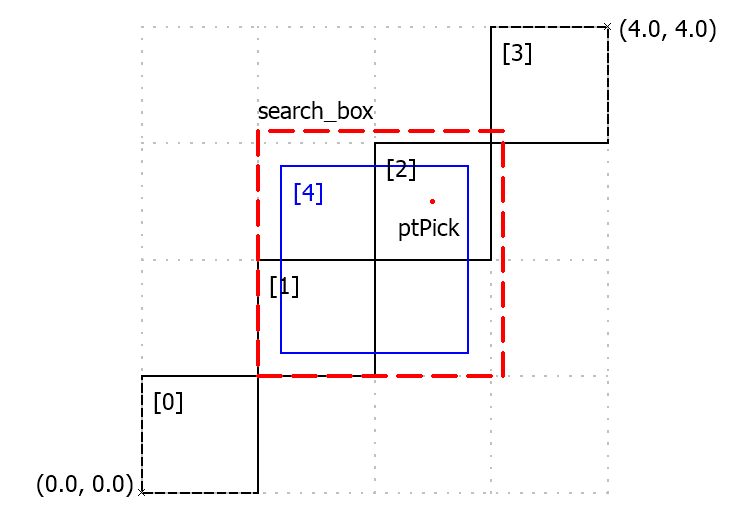
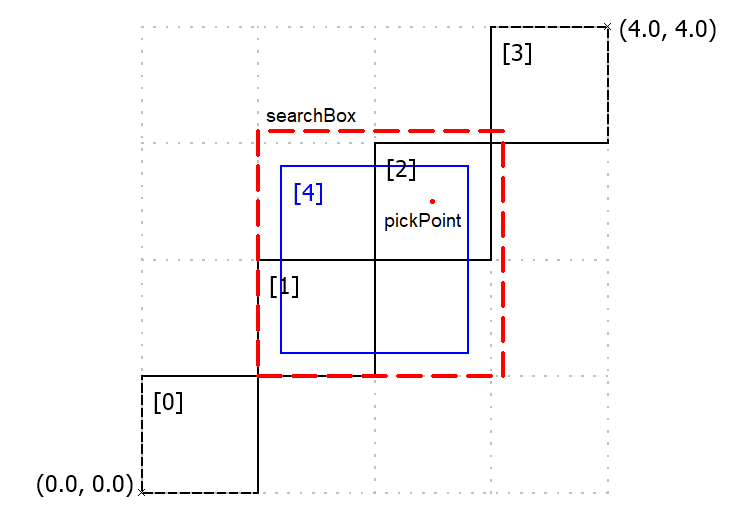
Readme update

Changed region(s): [[0.3602, 0.1864, 0.5102, 0.2485], [0.5102, 0.4039, 0.6303, 0.466]]

diff --git a/unittests/example.tests.cpp b/unittests/example.tests.cpp
@@ -14,13 +14,15 @@ namespace Example
       auto constexpr points = array{ Point3D{0,0,0}, Point3D{1,1,1}, Point3D{2,2,2} };
       auto const octree = OctreePoint(points, 3 /*max depth*/);
 
-      auto const search_box = BoundingBox3D{ {0.5, 0.5, 0.5}, {2.5, 2.5, 2.5} };
-      auto ids = octree.RangeSearch(search_box, points); // -> { 1, 2 }
-      auto knn_ids = octree.GetNearestNeighbors(Point3D{ 1.1,1.1,1.1 }, 2 /*k*/, points); // -> { 1, 2 }
+      auto const searchBox = BoundingBox3D{ {0.5, 0.5, 0.5}, {2.5, 2.5, 2.5} };
+      auto pointIDsByRange = octree.RangeSearch(searchBox, points); //: { 1, 2 }
+      auto pointIDsByKNN = octree.GetNearestNeighbors(Point3D{ 1.1,1.1,1.1 }
+        , 2 // neighborNo
+        , points
+      ); //: { 1, 2 }
 
-
-      Assert::IsTrue(std::ranges::is_permutation(vector<entity_id_type>{1, 2}, ids));
-      Assert::IsTrue(std::ranges::is_permutation(vector<entity_id_type>{1, 2}, knn_ids));
+      Assert::IsTrue(std::ranges::is_permutation(vector<entity_id_type>{1, 2}, pointIDsByRange));
+      Assert::IsTrue(std::ranges::is_permutation(vector<entity_id_type>{1, 2}, pointIDsByKNN));
     }
 
 
@@ -28,37 +30,39 @@ namespace Example
     {
       auto boxes = vector
       {
-          BoundingBox2D{ { 0.0, 0.0 }, { 1.0, 1.0 } },
-          BoundingBox2D{ { 1.0, 1.0 }, { 2.0, 2.0 } },
-          BoundingBox2D{ { 2.0, 2.0 }, { 3.0, 3.0 } },
-          BoundingBox2D{ { 3.0, 3.0 }, { 4.0, 4.0 } },
-          BoundingBox2D{ { 1.2, 1.2 }, { 2.8, 2.8 } }
+        BoundingBox2D{ { 0.0, 0.0 }, { 1.0, 1.0 } },
+        BoundingBox2D{ { 1.0, 1.0 }, { 2.0, 2.0 } },
+        BoundingBox2D{ { 2.0, 2.0 }, { 3.0, 3.0 } },
+        BoundingBox2D{ { 3.0, 3.0 }, { 4.0, 4.0 } },
+        BoundingBox2D{ { 1.2, 1.2 }, { 2.8, 2.8 } }
       };
 
-      auto quadtreebox = QuadtreeBox(boxes, 3
+      auto qt = QuadtreeBox(boxes
+        , 3            // max depth
         , std::nullopt // user-provided bounding Box for all
         , 2            // max element in a node 
       );
 
-      auto idPairColliding = quadtreebox.CollisionDetection(boxes); // { {1,4}, {2,4} }
+      auto collidingIDPairs = qt.CollisionDetection(boxes); //: { {1,4}, {2,4} }
 
-      auto search_box = BoundingBox2D{ { 1.0, 1.0 }, { 3.1, 3.1 } };
+      auto searchBox = BoundingBox2D{ { 1.0, 1.0 }, { 3.1, 3.1 } };
 
       // Boxes within the range
-      auto ids_inside = quadtreebox.RangeSearch(search_box, boxes); // -> { 1, 2, 4 }
+      auto insideBoxIDs = qt.RangeSearch(searchBox, boxes); //: { 1, 2, 4 }
 
       // Overlapping Boxes with the range
-      auto ids_overlaping = quadtreebox.RangeSearch<false /*overlap is enough*/>(search_box, boxes); // -> { 1, 2, 3, 4 }
+      constexpr bool shouldFullyContain = false;
+      auto overlappingBoxIDs = qt.RangeSearch<shouldFullyContain>(searchBox, boxes); //: { 1, 2, 3, 4 }
 
       // Picked boxes
-      auto ptPick = Point2D{ 2.5, 2.5 };
-      auto ids_picked = quadtreebox.PickSearch(ptPick, boxes); // -> { 2, 4 }
+      auto pickPoint = Point2D{ 2.5, 2.5 };
+      auto pickedBoxIDs = qt.PickSearch(pickPoint, boxes); //: { 2, 4 }
 
 
-      Assert::IsTrue(std::ranges::is_permutation(vector<std::pair<entity_id_type, entity_id_type>>{ {1, 4}, { 2, 4 } }, idPairColliding));
-      Assert::IsTrue(std::ranges::is_permutation(vector<entity_id_type>{1, 2, 4}, ids_inside));
-      Assert::IsTrue(std::ranges::is_permutation(vector<entity_id_type>{1, 2, 3, 4}, ids_overlaping));
-      Assert::IsTrue(std::ranges::is_permutation(vector<entity_id_type>{2, 4}, ids_picked));
+      Assert::IsTrue(std::ranges::is_permutation(vector<std::pair<entity_id_type, entity_id_type>>{ {1, 4}, { 2, 4 } }, collidingIDPairs));
+      Assert::IsTrue(std::ranges::is_permutation(vector<entity_id_type>{1, 2, 4}, insideBoxIDs));
+      Assert::IsTrue(std::ranges::is_permutation(vector<entity_id_type>{1, 2, 3, 4}, overlappingBoxIDs));
+      Assert::IsTrue(std::ranges::is_permutation(vector<entity_id_type>{2, 4}, pickedBoxIDs));
     }
 
 
@@ -77,13 +81,16 @@ namespace Example
       auto constexpr points = array{ Point3D{0,0,0}, Point3D{1,1,1}, Point3D{2,2,2} };
       auto const octree = OctreePointC(points, 3 /*max depth*/);
 
-      auto const search_box = BoundingBox3D{ {0.5, 0.5, 0.5}, {2.5, 2.5, 2.5} };
-      auto ids = octree.RangeSearch(search_box); // -> { 1, 2 }
-      auto knn_ids = octree.GetNearestNeighbors(Point3D{ 1.1,1.1,1.1 }, 2 /*k*/); // -> { 1, 2 }
+      auto const searchBox = BoundingBox3D{ {0.5, 0.5, 0.5}, {2.5, 2.5, 2.5} };
+      auto const pointIDs = octree.RangeSearch(searchBox); //: { 1, 2 }
 
+      auto neighborNo = 2;
+      auto pointIDsByKNN = octree.GetNearestNeighbors(Point3D{ 1.1, 1.1, 1.1 }
+        , neighborNo
+      ); //: { 1, 2 }
 
-      Assert::IsTrue(std::ranges::is_permutation(vector<entity_id_type>{1, 2}, ids));
-      Assert::IsTrue(std::ranges::is_permutation(vector<entity_id_type>{1, 2}, knn_ids));
+      Assert::IsTrue(std::ranges::is_permutation(vector<entity_id_type>{1, 2}, pointIDs));
+      Assert::IsTrue(std::ranges::is_permutation(vector<entity_id_type>{1, 2}, pointIDsByKNN));
     }
 
 
@@ -91,37 +98,39 @@ namespace Example
     {
       auto boxes = vector
       {
-          BoundingBox2D{ { 0.0, 0.0 }, { 1.0, 1.0 } },
-          BoundingBox2D{ { 1.0, 1.0 }, { 2.0, 2.0 } },
-          BoundingBox2D{ { 2.0, 2.0 }, { 3.0, 3.0 } },
-          BoundingBox2D{ { 3.0, 3.0 }, { 4.0, 4.0 } },
-          BoundingBox2D{ { 1.2, 1.2 }, { 2.8, 2.8 } }
+        BoundingBox2D{ { 0.0, 0.0 }, { 1.0, 1.0 } },
+        BoundingBox2D{ { 1.0, 1.0 }, { 2.0, 2.0 } },
+        BoundingBox2D{ { 2.0, 2.0 }, { 3.0, 3.0 } },
+        BoundingBox2D{ { 3.0, 3.0 }, { 4.0, 4.0 } },
+        BoundingBox2D{ { 1.2, 1.2 }, { 2.8, 2.8 } }
       };
 
-      auto quadtreebox = QuadtreeBoxC(boxes, 3
+      auto quadtree = QuadtreeBoxC(boxes
+        , 3            // max depth
         , std::nullopt // user-provided bounding Box for all
         , 2            // max element in a node 
-        , false        // parallel calculation flag
+        , false        // parallel calculation option
       );
 
-      auto idPairColliding = quadtreebox.CollisionDetection(); // { {1,4}, {2,4} }
+      auto collidingIDPairs = quadtree.CollisionDetection(); //: { {1,4}, {2,4} }
 
-      auto search_box = BoundingBox2D{ { 1.0, 1.0 }, { 3.1, 3.1 } };
+      auto searchBox = BoundingBox2D{ { 1.0, 1.0 }, { 3.1, 3.1 } };
 
       // Boxes within the range
-      auto ids_inside = quadtreebox.RangeSearch(search_box); // -> { 1, 2, 4 }
+      auto insideBoxIDs = quadtree.RangeSearch(searchBox); //: { 1, 2, 4 }
 
       // Overlapping Boxes with the range
-      auto ids_overlaping = quadtreebox.RangeSearch<false /*overlap is enough*/>(search_box); // -> { 1, 2, 3, 4 }
+      constexpr bool shouldFullyContain = false; // overlap is enough
+      auto overlappingBoxIDs = quadtree.RangeSearch<shouldFullyContain>(searchBox); //: { 1, 2, 3, 4 }
 
       // Picked boxes
-      auto ptPick = Point2D{ 2.5, 2.5 };
-      auto ids_picked = quadtreebox.PickSearch(ptPick); // -> { 2, 4 }
+      auto pickPoint = Point2D{ 2.5, 2.5 };
+      auto pickedIDs = quadtree.PickSearch(pickPoint); //: { 2, 4 }
 
-      Assert::IsTrue(std::ranges::is_permutation(vector<std::pair<entity_id_type, entity_id_type>>{ {1, 4}, { 2, 4 } }, idPairColliding));
-      Assert::IsTrue(std::ranges::is_permutation(vector<entity_id_type>{1, 2, 4}, ids_inside));
-      Assert::IsTrue(std::ranges::is_permutation(vector<entity_id_type>{1, 2, 3, 4}, ids_overlaping));
-      Assert::IsTrue(std::ranges::is_permutation(vector<entity_id_type>{2, 4}, ids_picked));
+      Assert::IsTrue(std::ranges::is_permutation(vector<std::pair<entity_id_type, entity_id_type>>{ {1, 4}, { 2, 4 } }, collidingIDPairs));
+      Assert::IsTrue(std::ranges::is_permutation(vector<entity_id_type>{1, 2, 4}, insideBoxIDs));
+      Assert::IsTrue(std::ranges::is_permutation(vector<entity_id_type>{1, 2, 3, 4}, overlappingBoxIDs));
+      Assert::IsTrue(std::ranges::is_permutation(vector<entity_id_type>{2, 4}, pickedIDs));
     }
 
 
@@ -130,13 +139,13 @@ namespace Example
       auto boxes = vector{ BoundingBox3D{ { 0.0, 0.0, 0.0 }, { 1.0, 1.0, 1.0 } } /* and more... */ };
       // Using ctor
       {
-        auto octreebox = OctreeBoxC(boxes, 3, std::nullopt, OctreeBox::DEFAULT_MAX_ELEMENT
+        auto octreeBox = OctreeBoxC(boxes, 3, std::nullopt, OctreeBox::DEFAULT_MAX_ELEMENT
           , true // Set std::execution::parallel_unsequenced_policy
         );
       }
       // Using Create
       {
-        auto octreebox = OctreeBoxC::Create<std::execution::parallel_unsequenced_policy>(boxes, 3);
+        auto octreeBox = OctreeBoxC::Create<std::execution::parallel_unsequenced_policy>(boxes, 3);
       }
       // or
       // TreeBoxND<3>::template Create<std::execution::parallel_unsequenced_policy>(boxes, 3);

diff --git a/README.md b/README.md
@@ -118,9 +118,13 @@ Usage of Container types
       auto constexpr points = array{ Point3D{0,0,0}, Point3D{1,1,1}, Point3D{2,2,2} };
       auto const octree = OctreePointC(points, 3 /*max depth*/);
 
-      auto const search_box = BoundingBox3D{ {0.5, 0.5, 0.5}, {2.5, 2.5, 2.5} };
-      auto ids = octree.RangeSearch(search_box); // -> { 1, 2 }
-      auto knn_ids = octree.GetNearestNeighbors(Point3D{ 1.1,1.1,1.1 }, 2 /*k*/); // -> { 1, 2 }
+      auto const searchBox = BoundingBox3D{ {0.5, 0.5, 0.5}, {2.5, 2.5, 2.5} };
+      auto const pointIDs = octree.RangeSearch(searchBox); //: { 1, 2 }
+
+      auto neighborNo = 2;
+      auto pointIDsByKNN = octree.GetNearestNeighbors(Point3D{ 1.1, 1.1, 1.1 }
+        , neighborNo
+      ); //: { 1, 2 }
     }
     
     // Example #2: Quadtree for bounding boxes
@@ -134,39 +138,49 @@ Usage of Container types
         BoundingBox2D{ { 1.2, 1.2 }, { 2.8, 2.8 } }
       };
 
-      auto quadtreebox = QuadtreeBoxC(boxes, 3
-        , std::nullopt // user-provided bounding box for all
+      auto quadtree = QuadtreeBoxC(boxes
+        , 3            // max depth
+        , std::nullopt // user-provided bounding Box for all
         , 2            // max element in a node 
-        , false        // parallel calculation flag
+        , false        // parallel calculation option
       );
 
-      // Collision detection
-      auto ids_pairs_colliding = quadtreebox.CollisionDetection(); // { {1,4}, {2,4} }
+      auto collidingIDPairs = quadtree.CollisionDetection(); //: { {1,4}, {2,4} }
 
-      // Range search
-      auto search_box = BoundingBox2D{ { 1.0, 1.0 }, { 3.1, 3.1 } };
-      auto ids_inside = quadtreebox.RangeSearch(search_box); // -> { 1, 2, 4 }
-      auto ids_overlaping = quadtreebox.RangeSearch<false /*overlap is enough*/>(search_box); 
-        // -> { 1, 2, 3, 4 }
+      auto searchBox = BoundingBox2D{ { 1.0, 1.0 }, { 3.1, 3.1 } };
+
+      // Boxes within the range
+      auto insideBoxIDs = quadtree.RangeSearch(searchBox); //: { 1, 2, 4 }
+
+      // Overlapping Boxes with the range
+      constexpr bool shouldFullyContain = false; // overlap is enough
+      auto overlappingBoxIDs = quadtree.RangeSearch<shouldFullyContain>(searchBox); 
+                               //: { 1, 2, 3, 4 }
 
       // Picked boxes
-      auto ptPick = Point2D{ 2.5, 2.5 };
-      auto ids_picked = quadtreebox.PickSearch(ptPick); // -> { 2, 4 }
+      auto pickPoint = Point2D{ 2.5, 2.5 };
+      auto pickedIDs = quadtree.PickSearch(pickPoint); //: { 2, 4 }
     }
     
     // Example #3: Parallel creation of octree for bounding boxes
     {
-      auto boxes = vector{ BoundingBox3D{ { 0.0, 0.0, 0.0 }, { 1.0, 1.0, 1.0 } } /* and more... */ };
-      // Using ctor
-      {
-        auto octreebox = OctreeBoxC(boxes, 3, std::nullopt, OctreeBox::max_element_default
-          , true // Set std::execution::parallel_unsequenced_policy
-        );
-      }
-      // Using Create
-      {
-        auto octreebox = OctreeBoxC::Create<std::execution::parallel_unsequenced_policy>(boxes, 3);
-      }
+      auto boxes = vector
+      { 
+        BoundingBox3D{ { 0.0, 0.0, 0.0 }, { 1.0, 1.0, 1.0 } } 
+        /* and more... */
+      };
+
+      auto octreeUsingCtor = OctreeBoxC(boxes
+        , 3
+        , std::nullopt
+        , OctreeBox::DEFAULT_MAX_ELEMENT
+        , true // Set std::execution::parallel_unsequenced_policy
+      );
+
+      using namespace std::execution;
+      auto octreeUsingCreate = OctreeBoxC::Create<parallel_unsequenced_policy>(boxes
+        , 3
+      );
     }
 ```
 
@@ -179,10 +193,13 @@ Usage of Core types
     {
       auto constexpr points = array{ Point3D{0,0,0}, Point3D{1,1,1}, Point3D{2,2,2} };
       auto const octree = OctreePoint(points, 3 /*max depth*/);
-       
-      auto const search_box = BoundingBox3D{ {0.5, 0.5, 0.5}, {2.5, 2.5, 2.5} };
-      auto ids = octree.RangeSearch(search_box, points); // -> { 1, 2 }
-      auto knn_ids = octree.GetNearestNeighbors(Point3D{ 1.1,1.1,1.1 }, 2 /*k*/, points); // -> { 1, 2 }
+
+      auto const searchBox = BoundingBox3D{ {0.5, 0.5, 0.5}, {2.5, 2.5, 2.5} };
+      auto pointIDsByRange = octree.RangeSearch(searchBox, points); //: { 1, 2 }
+      auto pointIDsByKNN = octree.GetNearestNeighbors(Point3D{ 1.1,1.1,1.1 }
+        , 2 // k neighbor
+        , points
+      ); //: { 1, 2 }
     }
     
     // Example #2: Quadtree for bounding boxes
@@ -196,23 +213,28 @@ Usage of Core types
         BoundingBox2D{ { 1.2, 1.2 }, { 2.8, 2.8 } }
       };
 
-      auto quadtreebox = QuadtreeBox(boxes, 3
-        , std::nullopt // user-provided bounding box for all
+      auto qt = QuadtreeBox(boxes
+        , 3            // max depth
+        , std::nullopt // user-provided bounding Box for all
         , 2            // max element in a node 
       );
 
-      // Collision detection
-      auto ids_pairs_colliding = quadtreebox.CollisionDetection(boxes); // { {1,4}, {2,4} }
+      auto collidingIDPairs = qt.CollisionDetection(boxes); //: { {1,4}, {2,4} }
 
-      // Range search
-      auto search_box = BoundingBox2D{ { 1.0, 1.0 }, { 3.1, 3.1 } };
-      auto ids_inside = quadtreebox.RangeSearch(search_box, boxes); // -> { 1, 2, 4 }
-      auto ids_overlaping = quadtreebox.RangeSearch<false/*overlap is enough*/>(search_box, boxes);
-        // -> { 1, 2, 3, 4 }
-      
+      auto searchBox = BoundingBox2D{ { 1.0, 1.0 }, { 3.1, 3.1 } };
+
+      // Boxes within the range
+      auto insideBoxIDs = qt.RangeSearch(searchBox, boxes); //: { 1, 2, 4 }
+
+      // Overlapping Boxes with the range
+      constexpr bool shouldFullyContain = false;
+      auto overlappingBoxIDs = qt.RangeSearch<shouldFullyContain>(searchBox
+        , boxes
+      ); //: { 1, 2, 3, 4 }
+
       // Picked boxes
-      auto ptPick = Point2D{ 2.5, 2.5 };
-      auto ids_picked = quadtreebox.PickSearch(ptPick, boxes); // -> { 2, 4 }
+      auto pickPoint = Point2D{ 2.5, 2.5 };
+      auto pickedBoxIDs = qt.PickSearch(pickPoint, boxes); //: { 2, 4 }
     }
 ```
     
